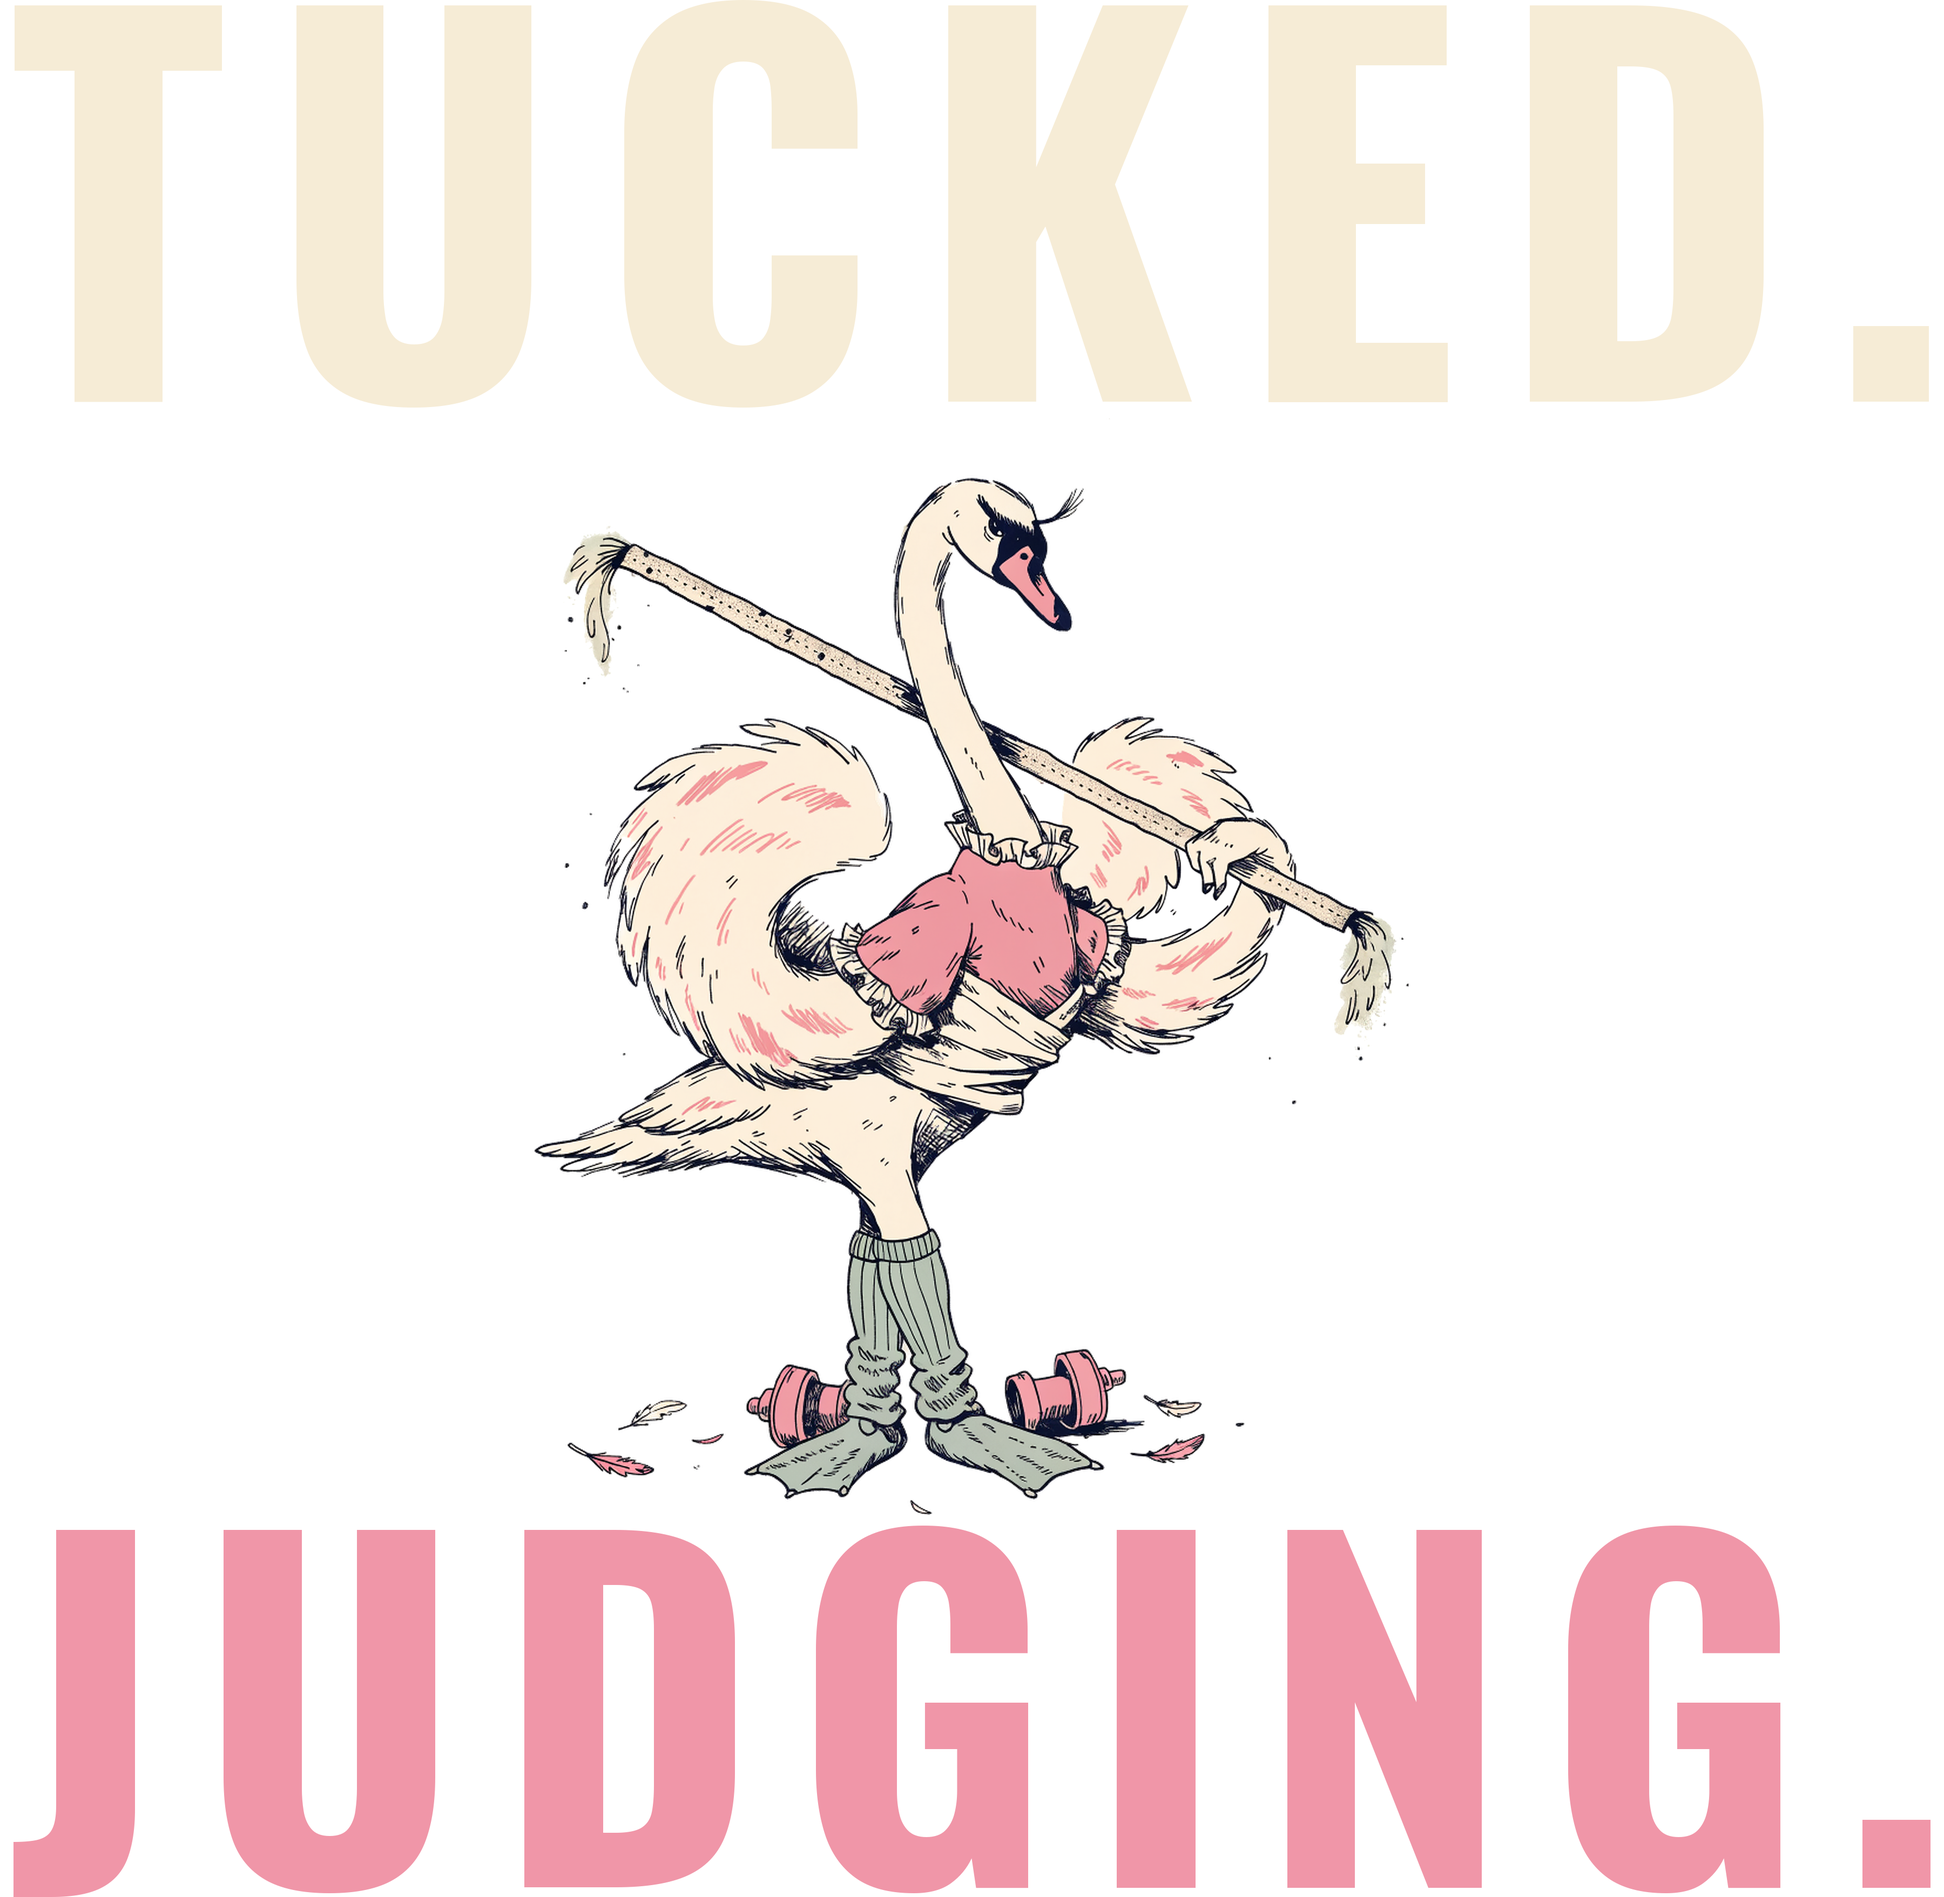
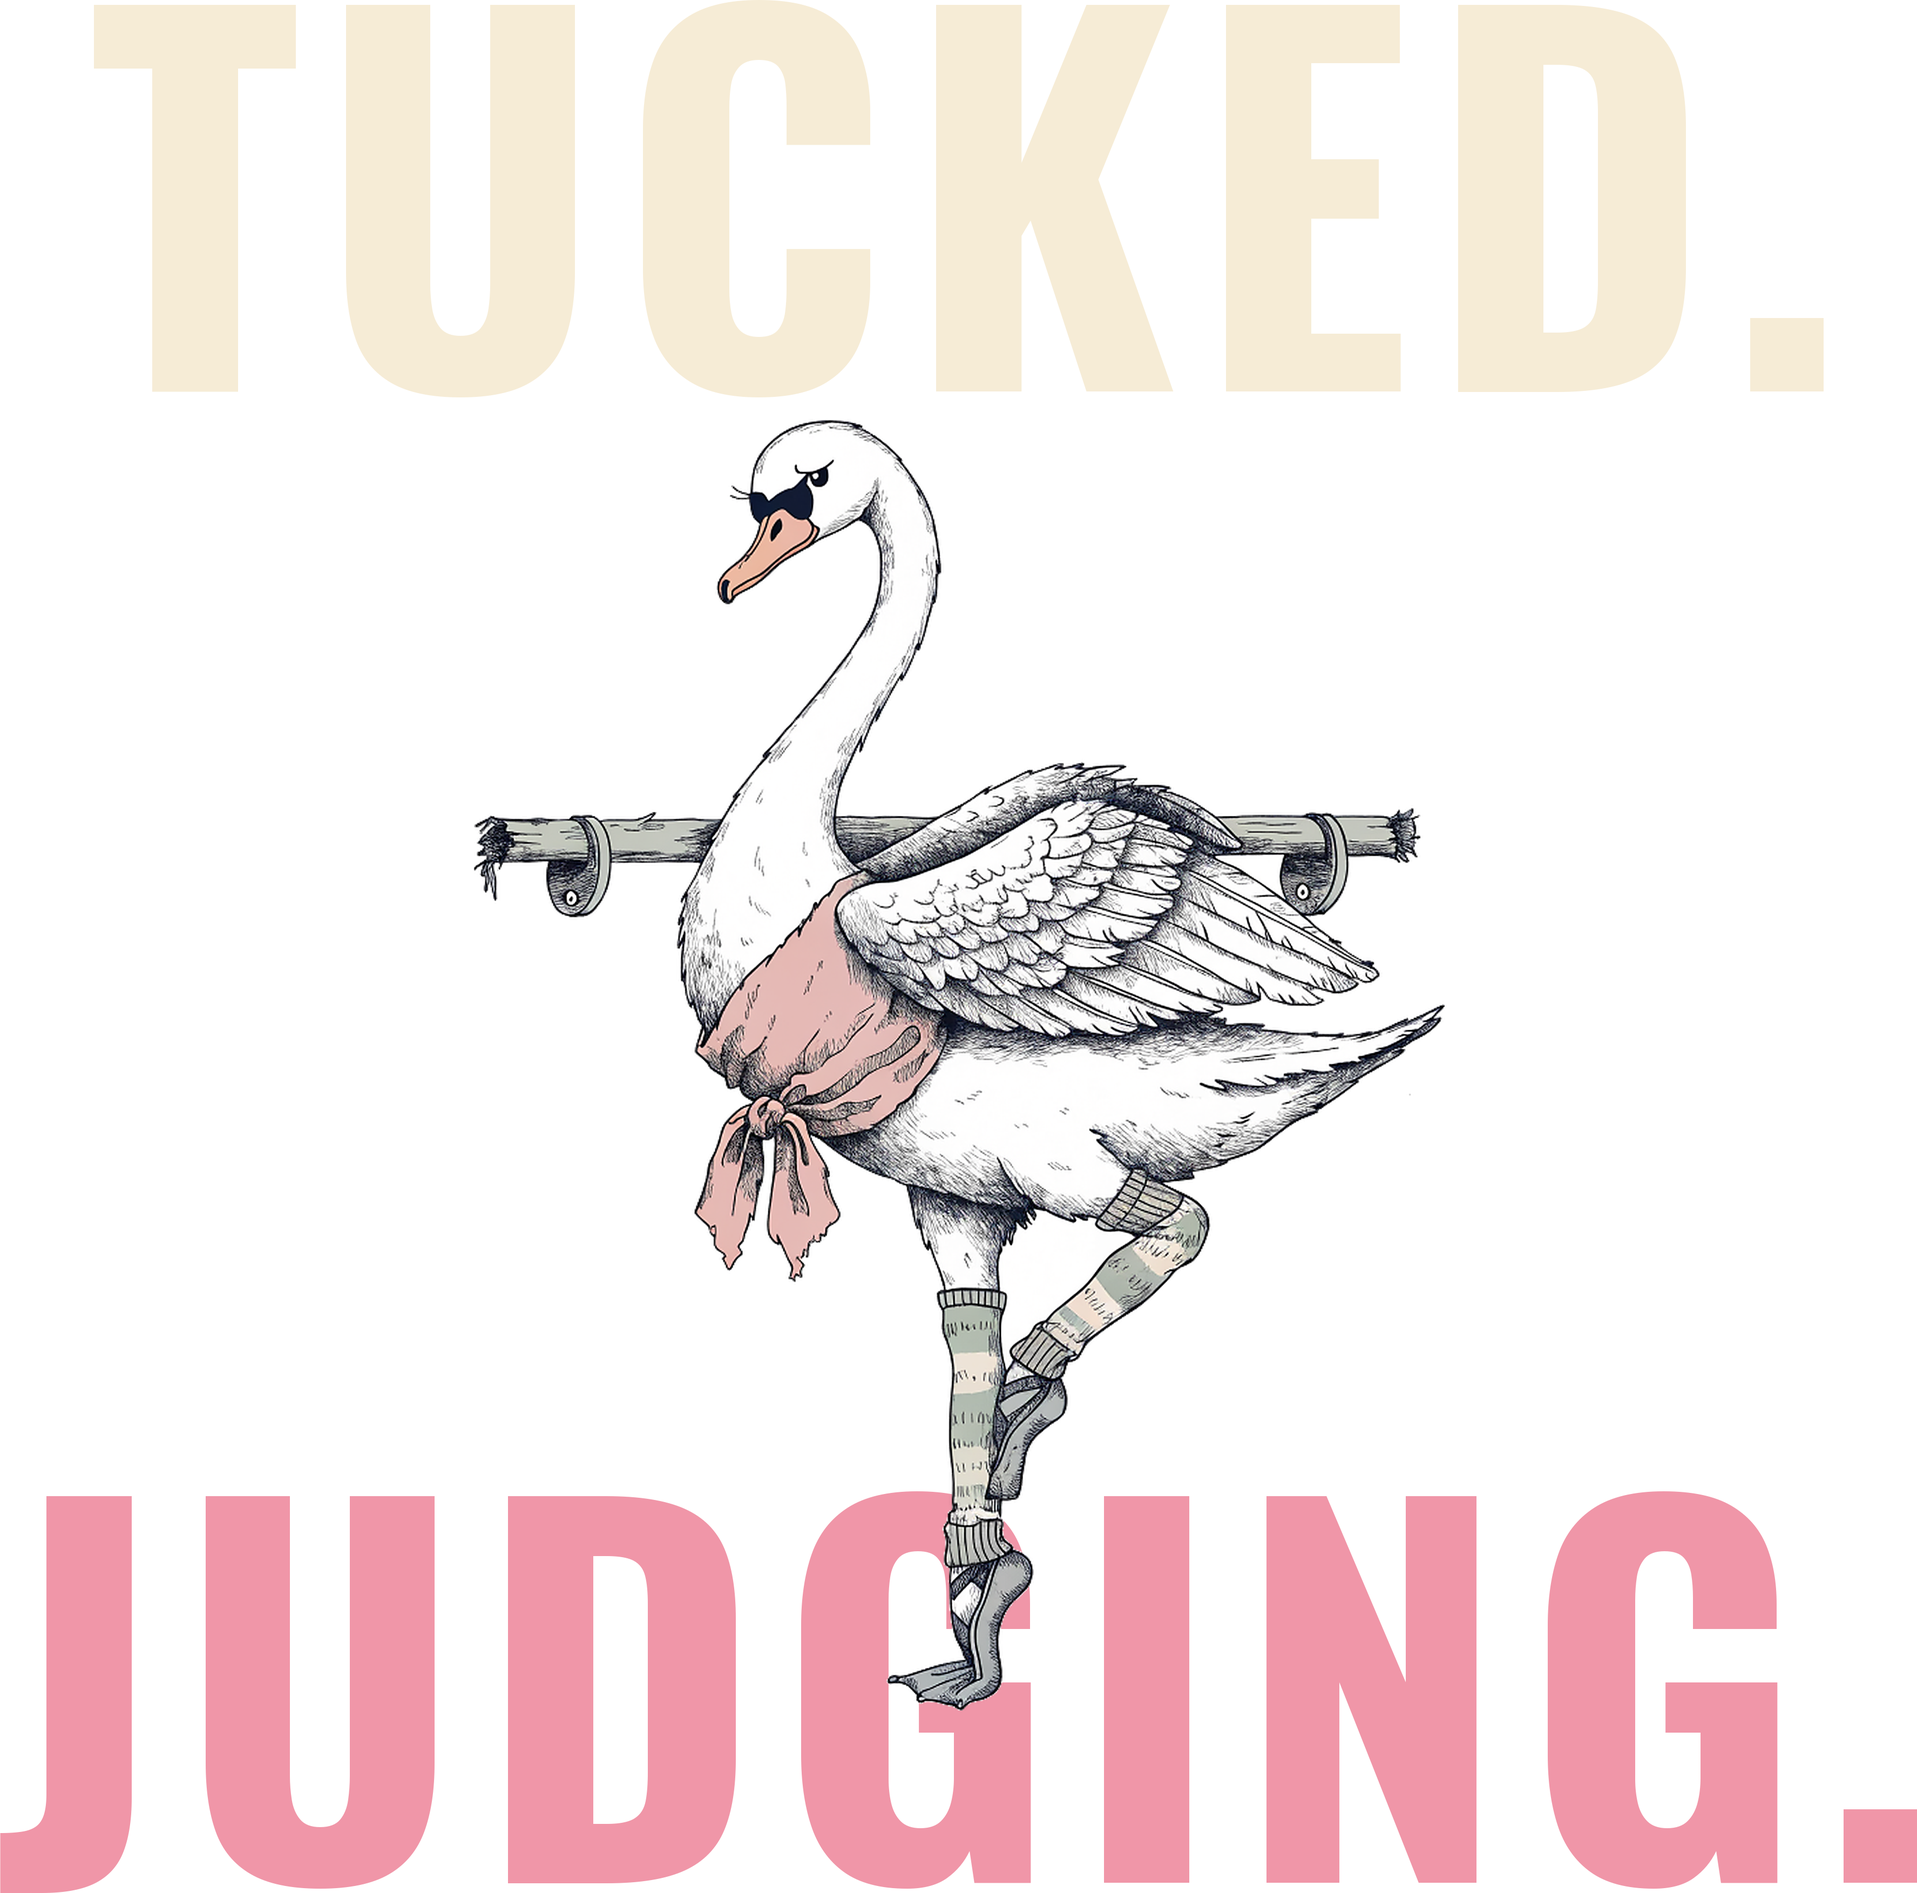
[B] review 742 barre cropped hoodie redo: swan at the barre, foot crossing JUDGING.

diff --git a/docs/intake-log.md b/docs/intake-log.md
@@ -1,8 +1,8 @@
+2026-10-20 21:45 UTC — [B] Builder run: REDO #742 Barre Tucked. Judging. cropped hoodie rebuilt (new swan art at a wall barre, foot crossing JUDGING., headline 3204 / punch 3551 px, type 42%, subject 50%, 10/10 synced on file 1090691065), REVIEW. Cohesion audit not run (esbuild missing). Next lane B: #753 boxing hoodie. fal $0.04. Lock released.
 2026-10-20 21:33 UTC — [C] Builder run: #677 pit bull ornament (72 LBS) widened above LAP DOG, REVIEW.
 2026-10-20 21:31 UTC — [C] Builder run: #693 strawberry mug punch widened to 100% of headline, REVIEW.
 2026-10-20 21:30 UTC — [C] Builder run: #692 alien mug photos re-attached (3 mockups), REVIEW.
 RUNNING lane C since 2026-10-20 21:30 UTC
-RUNNING lane B since 2026-10-20 21:34 UTC
 2026-10-20 21:50 UTC — [D] Director run: 6 LIVE (the cap), add-ons first per the inbox order, all approved 20:25 and re-read beside 493 and 483: mugs #690 Pillaging Is a Young Man's Game, #691 Horse Girl, Broke on Purpose; Frenchie ornaments #721 Silent Night. Except the Snoring., #725 Santa's Cookies? What Cookies., #727 I'm Helping. You're Welcome.; sweatpants #711 Rack Your Weights. Respectfully. (ACTIVE + Online Store, Headless, Google & YouTube; audit --handle PASS). Reviewed the 4 new items: approved and held #714 and #715 sweatpants; REDO #742 barre cropped hoodie (R5.3.4 swan holds the barre with a human hand like a pole; plain bars around a small figure). Article #801 Funny Hoodies: committed without draft: true, so it went live unreviewed at 20:46; read it, checked all six picks on Shopify (live, $39.99, colors right), fixed one 'hand-drawn' line, approved; writer card now says to check for the draft line. Briefs: #753 boxing hoodie (3,600 / KD 20, lane B) and #754 turtle hoodie (880 / KD 31, lane C); READY now A 12 / B 12 / C 12 / E 11. Kids line noted (needs a youth-hoodie blank check and audit support first). Re-asked Sam on Telegram, in plain words, whether the ~80 already-on-sale redos can be signed off outside the 6-LIVE cap. No digest (12:17 run sent it). Lock released.
 2026-10-20 20:48 UTC — [H] Helper run: Telegram inbox had 1 message from Sam (not a command: he is unsure what the director is asking permission for). Logged a paraphrase in docs/inbox.md, replied "Got it, passing it to the director (next run about 21:50 UTC).", consumed the update. Audit 636 live products: 0 errors, 61 warnings left alone; committed docs/cohesion-audit.md and .json. Price check: announcement bar already on the holiday line, 0 price errors. Category check: 0 products without a Shopify category (no mutation). Site check: nana-mom-said-no-thats-cute-mug, bigfoot-camera-shy-mug and owl-night-owl-retired-mug all 200; homepage 200. Stuck work: none (742 claimed 20:34; lane B lock fresh). Daily summary not due (sent at the 12:49 run). Lock released.
 2026-10-20 21:25 UTC — [C] Builder run: built #715 Unisex National Park – The View Better Be Worth It. Sweatpants (REVIEW, Shopify DRAFT 15370890314032, 12/12 synced, Military Green + Navy Blazer, $44.99, fal $0). All five lane C sweatpants (#711–#715) are now REVIEW. Lock released.

diff --git a/docs/pipeline/742-barre-cropped-hoodie-tucked-and-judging.md b/docs/pipeline/742-barre-cropped-hoodie-tucked-and-judging.md
@@ -1,4 +1,4 @@
-status: BUILDING [B] 2026-10-20T21:34Z
+status: REVIEW
 lane: B
 type: new
 id: 742
@@ -31,3 +31,4 @@ kd: 32
   1. R5.3.4 (correct anatomy, reads instantly): the swan grips the 'barre' with a human hand and carries it over its shoulder like a hiking pole, so it reads as a swan with a stick, not barre class. Redraw (one Recraft call, $0.04): the swan standing at a wall-mounted ballet barre, one wing resting on it, one leg in leg-warmers lifted in a tuck, side-eye at the viewer; no hands. Keep the pink/cream palette.
   2. Quality-reset bar (type is half the design, docs/backlog/quality-reset.md): TUCKED. and JUDGING. are two plain bars with a small figure floating between them, the exact tell Sam named. Make the lettering a shape: stacked lockup with the swan breaking into it (wing or leg crossing JUDGING.), subject at least 45% of the lockup width (7l) at FW 1500.
   3. Line stays (barre insiders say 'tuck', the side-eye carries 'judging'); widths stay logged per 7h. Remake the sheet from the new file and re-check the Printful file ids (R7.7).
+- 2026-10-20 22:20 UTC builder [B]: REDO done (notes 1-3). New Recraft art ($0.04, 1 of 3 tries): swan beside a wall-mounted barre, one wing over it, one leg-warmered leg lifted in a tuck, side-eye, no hands. New lockup: TUCKED. above, swan in the middle, its foot crossing JUDGING. below (type is part of the picture). 7h: headline 3204 px / punch 3551 px = 111%. 7k: type 1480 of 3506 px = 42%. 7l: subject 1800 of 3600 px = 50%. Print docs/print-files/k742.png 3551x3506, FW 1500 TOP 0, Oswald 700, cream headline / pink punch, one file for Black + Storm (both dark, no light file needed). Printful file 1090691065 on 10/10 variants (verified via /sync/products/483486947), back logo 1080398177 on 10/10. Shopify media replaced (Black front, Storm front, neck-logo back last), variants re-linked; Story paragraph 2 rewritten to the new art (no hand weights, foot crosses JUDGING.); title unchanged (line unchanged). Phone-size read of mockups OK on both colors. Design crops regenerated. Audit not run: node esbuild missing in this container (audit is pending for director). R5.2 proof gate unchanged from first build. fal $0.04.
